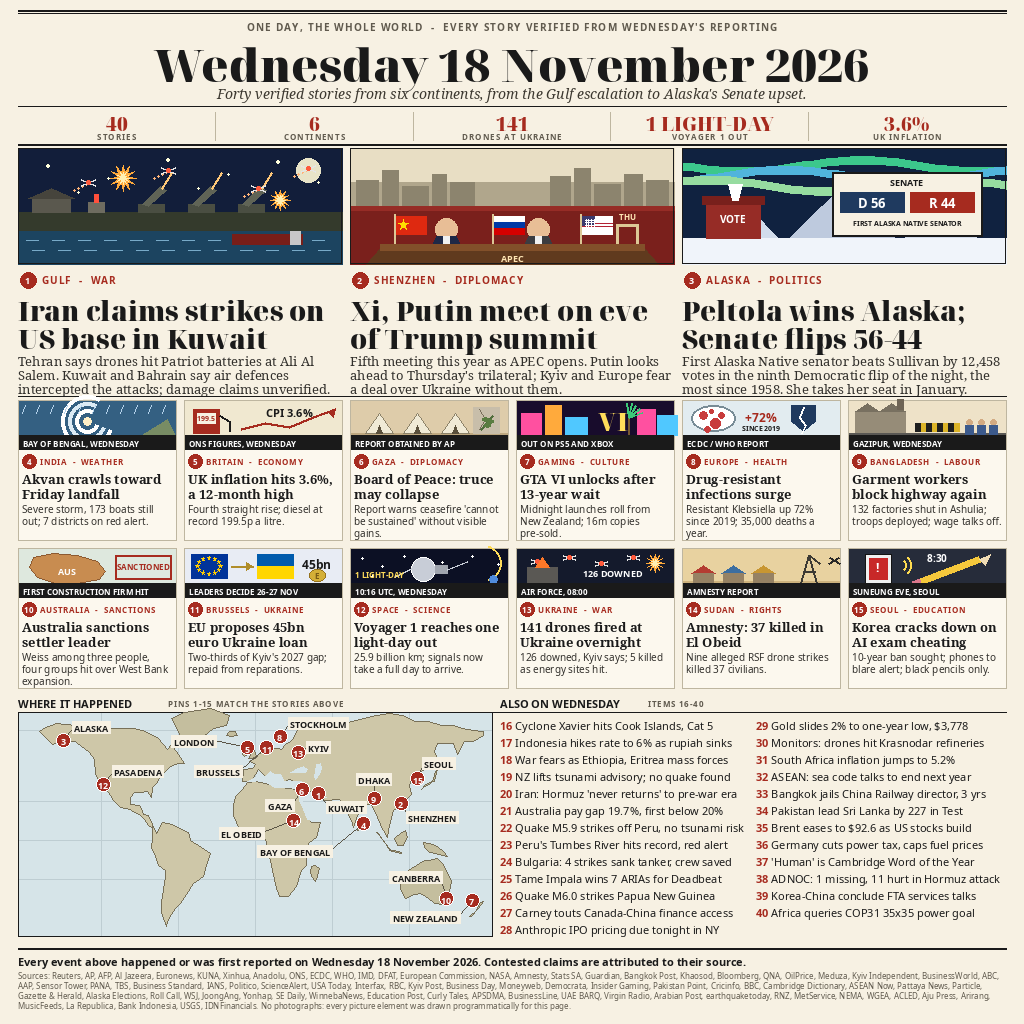
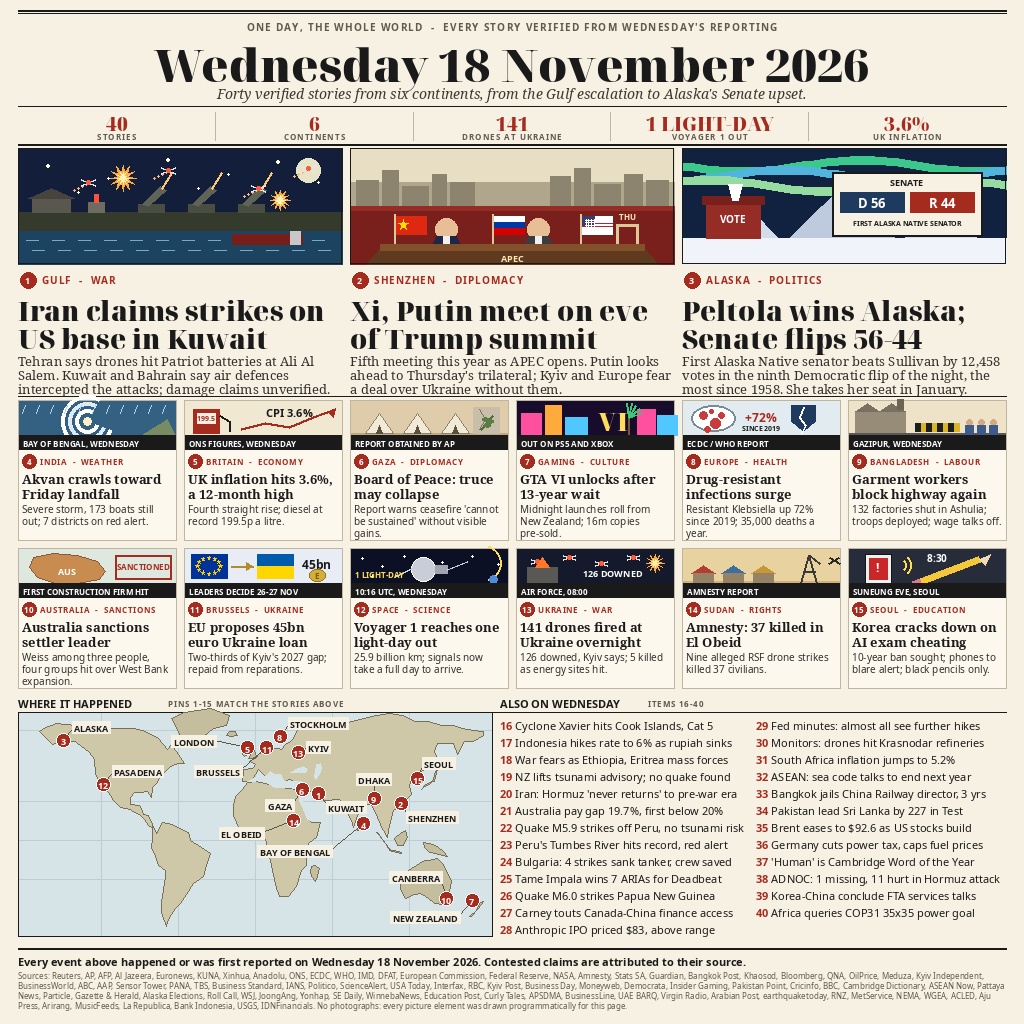
news-image-20261118 v3: Anthropic $83 IPO pricing + Fed minutes outcomes
Upgrade list 28 (Anthropic: priced $83, above $70-78 range, trades Thu as
ANT - Reuters/Bloomberg/CNBC) and list 29 (Fed minutes: almost all officials
see further hikes; 10-2 hold at 3.75-4.00%, Dec 8-9 meeting). Gold slide
drops out. Same 40-story structure, heroes, cards, map; render verified
deterministic (md5 26d6ce08d264fd0046994f5721aaa521), 232,842 bytes.
Sources documented in sources-v3.md; README descriptive lines corrected
(badges untouched).

Changed region(s): [[0.0312, 0.9062, 0.9688, 1.0], [0.75, 0.6875, 0.9375, 0.7188]]

diff --git a/sources-v3.md b/sources-v3.md
@@ -1,0 +1,69 @@
+# Sources — news-image-20261118 v3
+
+V3 changes vs v2 only. All other 38 stories are UNCHANGED from v2; their
+verification lives in ~/workspace/makefun/news-image-20261118-v2/sources.md
+(v2 commit ac92b4c). Same structure: 3 heroes + 12 cards + 25 list = 40
+stories, 6 continents, same render pipeline (render.py in this directory).
+No spare swap was used: v2 went 12/0/0 and the gap to the prize band is small,
+so only the two overnight outcomes below were upgraded. Date rule unchanged:
+every event happened or was first reported on Wednesday 18 November 2026.
+ASCII hyphens only in image text.
+
+## CHANGED LINES
+
+### 28. ANTHROPIC IPO — priced $83/share, above the $70-78 range (was: "pricing due tonight")
+Rendered line: "Anthropic IPO priced $83, above range"
+- Priced Wednesday evening New York time at $83/share, above the $70-$78
+  range set in the 17 Nov S-1 amendment. Reported by Reuters, Bloomberg and
+  CNBC, all citing people familiar with the matter; Anthropic declined to
+  comment at that point (per the research note; later coverage reports
+  Anthropic itself confirmed the price and an enlarged 980m-share offering,
+  ~$81.3bn — that final size is NOT stated in the image).
+- Trading starts Thursday 19 Nov on Nasdaq under ticker ANT.
+- NOT used in the image: the final raise and the ~$1.5tn fully-diluted
+  valuation (TechCrunch/Unite.AI-reported, not official).
+- Sources (re-verified 19 Nov ~07:55 WIB via web search): Motley Fool
+  (18 Nov 17:17 EST), https://www.fool.com/investing/2026/11/18/it-s-official-anthropic-prices-its-ipo-at-usd83-a-share-here-s-what-we-know-and-what-we-don-t/
+  ; Reuters via KZ1023 (18 Nov 21:26 UTC),
+  https://www.kz1023.com/2026/11/18/anthropic-prices-blockbuster-ipo-at-83-a-share-source-says/
+  ; CNBC/Bloomberg via Investopedia and Invezz (18 Nov). Corroborated by
+  FinanceFeeds and The Desk (19 Nov 00:06 UTC).
+
+### 29. FED MINUTES — almost all officials see further hikes (was: gold's slide)
+Rendered line: "Fed minutes: almost all see further hikes"
+- Minutes of the Oct 27-28 FOMC meeting, released 18 Nov 19:00 GMT / 14:00 ET:
+  "almost all participants" judged further rate increases would likely be
+  appropriate to return inflation to 2%. A couple of participants said a hike
+  of MORE than 25bp could warrant consideration at the Dec 8-9 meeting if
+  inflation data were unfavourable. October decision itself: held at
+  3.75-4.00%, vote 10-2; dissenters Lisa Cook and Beth Hammack wanted +25bp.
+  Total PCE 3.6% (Sept), core PCE 3.1%. CME FedWatch ~94.7% for a 25bp
+  December hike after the release.
+- FRAMING: the minutes predate the hot October CPI print, so the line states
+  what the minutes SAY, not a fresh decision. (The Waller 50bp comment is a
+  same-day CNBC interview, not in the minutes — not used.)
+- Gold's Wednesday slide (v2 item 29, $3,777.83/oz, -1.9%) drops out of the
+  list entirely; nothing else in the image references gold.
+- Sources (re-verified 19 Nov ~07:55 WIB via web search): dpa-AFX via
+  TradingView (18 Nov 19:35 UTC),
+  https://www.tradingview.com/news/dpa_afx:174dcf726b8c5:0-fed-minutes-confirm-most-officials-expect-further-rate-hikes/
+  ; Kilambi summary of federalreserve.gov minutes,
+  https://news.kilambi.com/stories/2026-11-18-fomc-october-minutes-further-hikes-likely/
+  ; Binance Square FOMC summary (18 Nov 19:12 UTC); AsiaToday (19 Nov
+  06:38 WIB, FedWatch 94.7%).
+
+## FOOTER CHANGE
+- "Federal Reserve" added to the sources footer (still 4 wrapped lines).
+- No other image text changed. Masthead, stat strip, heroes, cards, map
+  pins, and list items 16-27 and 30-40 are byte-identical in content to v2.
+
+## VERIFICATION
+- Rendered with render.py (Python + PIL, stdlib only, no network).
+  Deterministic: three consecutive runs produce md5
+  26d6ce08d264fd0046994f5721aaa521.
+- entry.png: 1024x1024, 232,842 bytes (v2: 233,060 bytes), well under 1 MB.
+- Legibility checked by viewing the rendered file: zoomed list crop shows
+  items 28 and 29 crisp with no truncation or garbling; full page at 300px
+  reads as a newspaper front page (same as v2).
+- Render assertions passed: no text overflow (list lines fit their columns),
+  map leaders zero crossings / zero label overlaps, sources footer 4 lines.

diff --git a/README.md b/README.md
@@ -25,11 +25,11 @@ all of which happened or were first reported on Wednesday 18 November 2026:
   antibiotic resistance in Europe, Bangladesh garment protests,
   Australia's West Bank sanctions, the EU's €45bn Ukraine loan,
   Voyager 1 reaching one light-day out, Russia's 141-drone night,
-  Amnesty on El Obeid, and Africa's questions at COP31.
+  Amnesty on El Obeid, and Korea's Suneung exam crackdown.
 - **A numbered world map** (pins 1–15 match the heroes and cards).
 - **"Also on Wednesday"**: items 16–40, one line each — quakes in Papua
-  New Guinea and Romania, gold's slide, Tencent's earnings, the Cambridge
-  Word of the Year ("human"), and more.
+  New Guinea and Peru, Anthropic's $83 IPO pricing, the Fed minutes,
+  the Cambridge Word of the Year ("human"), and more.
 - **A footer** stating the date rule and listing every source outlet.
   Contested claims are attributed to their source in the text.
 
